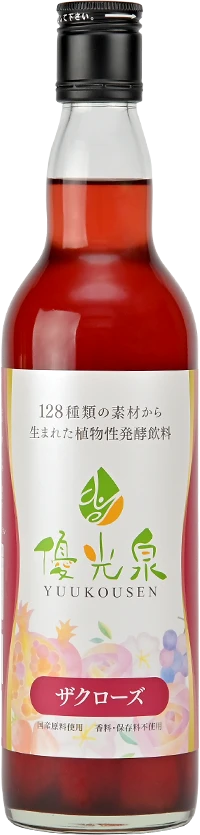
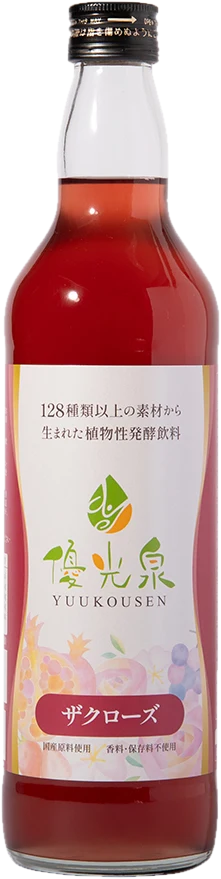
feat: 10%OFFクーポンURL反映、瓶写真を600mlの新写真に差し替え、和漢に瓶を追加

diff --git a/index.html b/index.html
@@ -581,8 +581,8 @@ a{color:inherit;text-decoration:none}
       <img class="pf" src="images/pk-std.webp" alt="" style="right:18%;top:50%;--r:-10deg;--t:7.4s;--dl:1.6s">
       <img class="pf sm" src="images/pk-ume.webp" alt="" style="left:-1%;top:66%;--r:24deg;--t:5.8s;--dl:1.7s">
       <img class="pf sm" src="images/pk-mik.webp" alt="" style="right:-1%;top:34%;--r:-26deg;--t:6.8s;--dl:1.8s">
-      <img class="bt std" src="images/bt-std.webp" alt="">
-      <img class="bt ume" src="images/bt-ume.webp" alt="">
+      <img class="bt std" src="images/bt-std.webp?v=2" alt="">
+      <img class="bt ume" src="images/bt-ume.webp?v=2" alt="">
     </div>
 
     <div class="fv-date">
@@ -620,8 +620,8 @@ a{color:inherit;text-decoration:none}
         <p class="dash-until"><span class="n pink-t">11.25</span><span class="w">（水）</span><span class="t">1:59</span><span class="m">まで</span></p>
         <p class="dash-sub"><span class="ib">まだ間に合う！</span><span class="ib">店内全品<b>10</b>%OFF</span></p>
       </div>
-      <!-- COUPON10_URL：10%OFFクーポンのURLが届いたら下の href="#" を差し替える -->
-      <a class="ticket rv" href="#" data-coupon10 target="_blank" rel="noopener">
+      <!-- 10%OFFクーポン（11/21 0:00〜） -->
+      <a class="ticket rv" href="https://coupon.rakuten.co.jp/getCoupon?getkey=T0tXWC1ZRldBLUZWTTItS0NBNA--&amp;rt=" data-coupon10 target="_blank" rel="noopener">
         <p class="what">店内全品</p>
         <p class="big"><span class="pct pink-t">10</span><span class="off pink-t">%OFF<small>COUPON</small></span></p>
         <span class="get">10%OFFクーポンを獲得する</span>
@@ -780,7 +780,7 @@ a{color:inherit;text-decoration:none}
 
     <div class="flv">
       <article class="flv-row std rv">
-        <div class="pic set2"><img class="b b1" src="images/bt-std.webp" alt="スタンダード ボトル"><img class="b b2" src="images/bt-ume.webp" alt="梅 ボトル"><img class="p p1" src="images/pk-std.webp" alt="スタンダード 個包装"><img class="p p2" src="images/pk-ume.webp" alt="梅 個包装"></div>
+        <div class="pic set2"><img class="b b1" src="images/bt-std.webp?v=2" alt="スタンダード ボトル"><img class="b b2" src="images/bt-ume.webp?v=2" alt="梅 ボトル"><img class="p p1" src="images/pk-std.webp" alt="スタンダード 個包装"><img class="p p2" src="images/pk-ume.webp" alt="梅 個包装"></div>
         <div>
           <h3><small>STANDARD / UME</small>スタンダード・梅</h3>
           <p class="cp">いちばん人気の基本の味と、並んで人気の梅。最初の1本に。</p>
@@ -805,7 +805,7 @@ a{color:inherit;text-decoration:none}
       </article>
 
       <article class="flv-row zak rv">
-        <div class="pic set1"><img class="b" src="images/bt-zak.webp" alt="ザクローズ ボトル"><img class="p" src="images/pk-zak.webp" alt="ザクローズ 個包装"></div>
+        <div class="pic set1"><img class="b" src="images/bt-zak.webp?v=2" alt="ザクローズ ボトル"><img class="p" src="images/pk-zak.webp" alt="ザクローズ 個包装"></div>
         <div>
           <h3><small>ZAKUROSE</small>ザクローズ</h3>
           <p class="cp">ザクロが香る、果物の味わいの一杯。</p>
@@ -818,7 +818,7 @@ a{color:inherit;text-decoration:none}
       </article>
 
       <article class="flv-row wak rv">
-        <div class="pic solo"><img class="p" src="images/pk-wak.webp" alt="濃縮和漢発酵 個包装"></div>
+        <div class="pic set1"><img class="b" src="images/bt-wak.webp" alt="濃縮和漢発酵 ボトル"><img class="p" src="images/pk-wak.webp" alt="濃縮和漢発酵 個包装"></div>
         <div>
           <h3><small>WAKAN</small>濃縮和漢発酵</h3>
           <p class="cp">「まずそう」の常識をくつがえす、和漢の味。</p>
